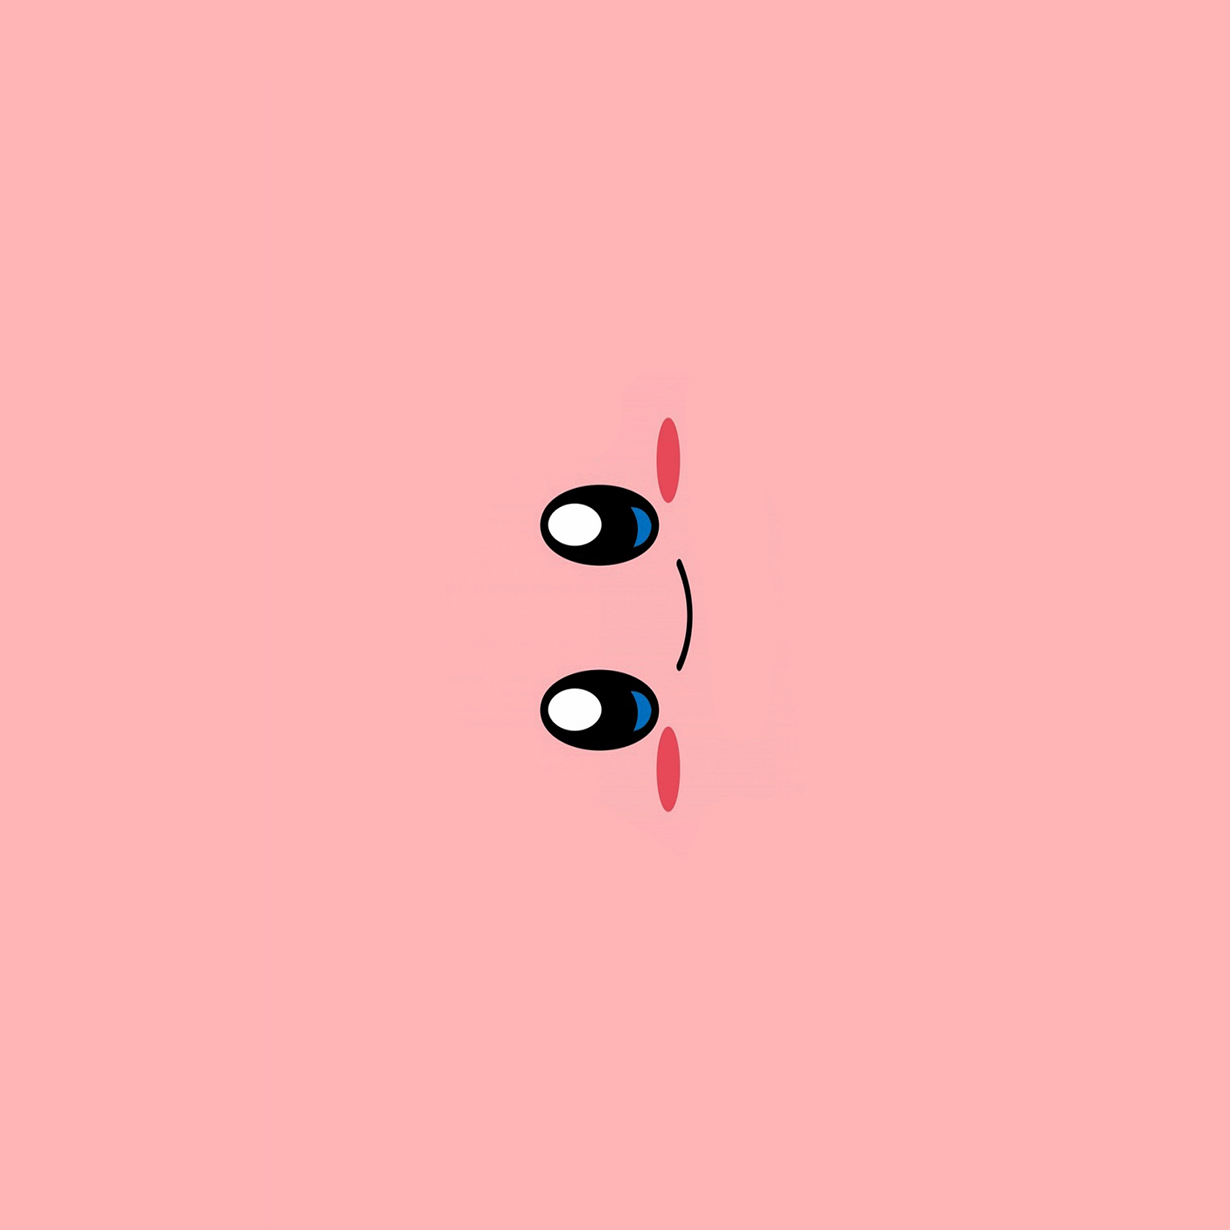
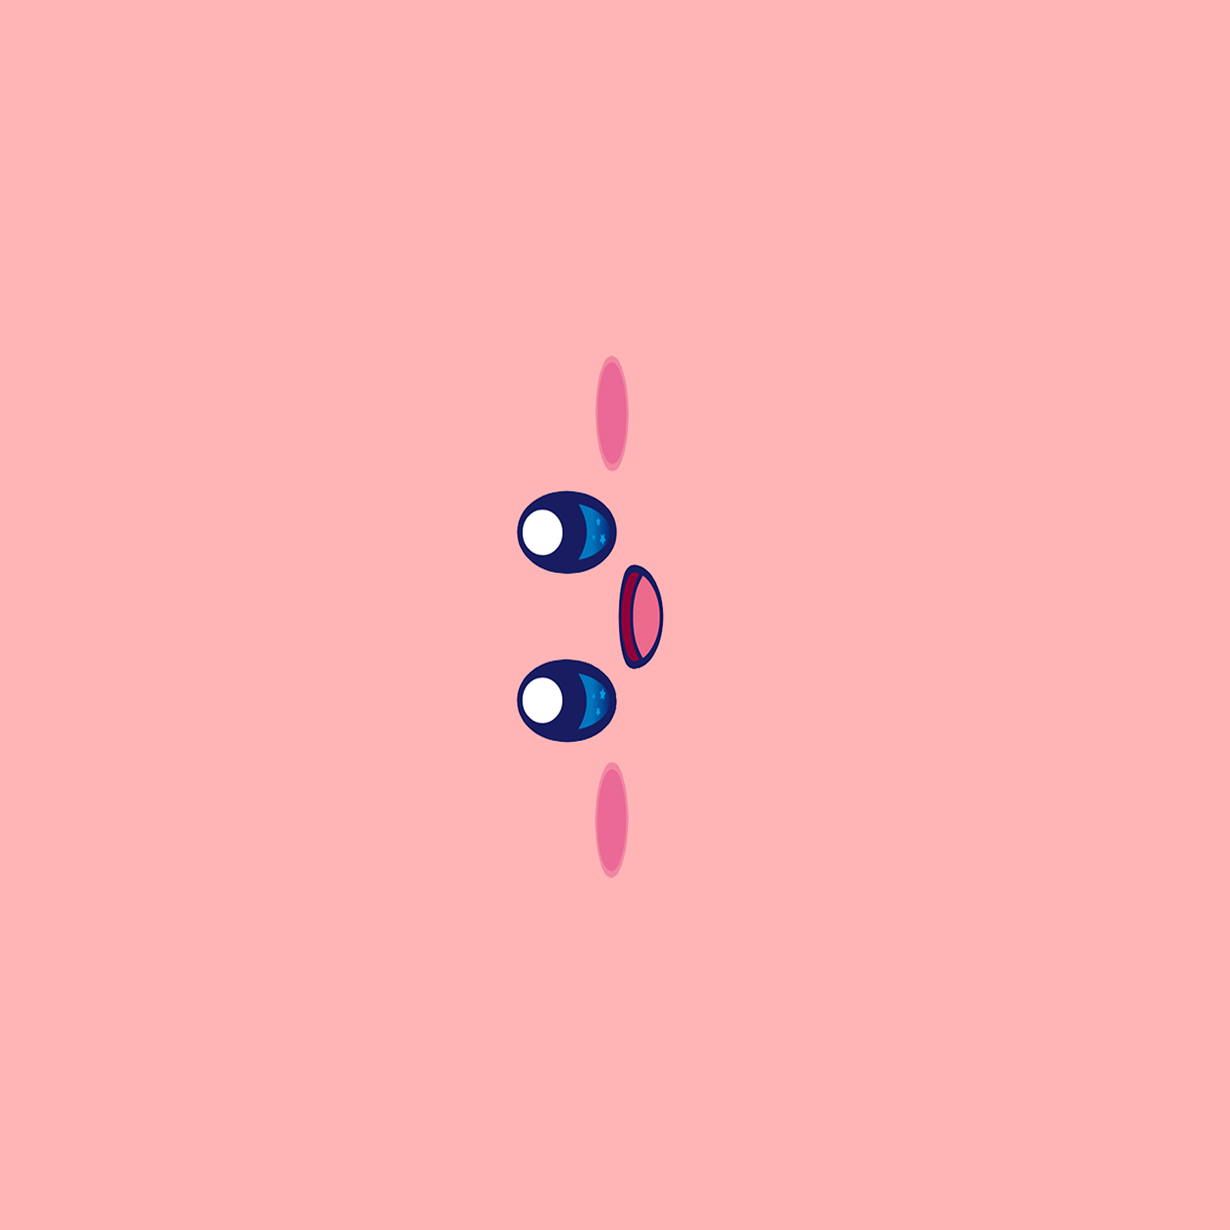
kirby fix

Changed region(s): [[0.4016, 0.278, 0.587, 0.7106]]

diff --git a/src/MainApp/Nodes/Kirby/KirbyNodeModel.ts b/src/MainApp/Nodes/Kirby/KirbyNodeModel.ts
@@ -98,12 +98,12 @@ export class KirbyNodeModel extends AMeshModel {
 	static async CreateDefaultNode(radius: number = 20, height = 10, samples: number = 50, isSmooth: boolean = true, ...args: any[]) {
 		let kirbyModel = new this();
 		let locations = [
-			V3(20, 0, 25), //right hand
+			V3(0, 20, 25), //right hand
 			V3(0, 0, 25),
 			// V3(new Vector3(0, 0, 25).applyQuaternion(Quaternion.RotationZ(Math.PI * 0.5))), //body
-			V3(-20, 0, 25), //left hand
-			V3(10, 0, 8), //right leg
-			V3(-10, 0, 8), //left leg
+			V3(0, -20, 25), //left hand
+			V3(0, 10, 8), //right leg
+			V3(0, -10, 8), //left leg
 		];
 		kirbyModel.segments = [
 			new KirbySegment(locations[0], 0.3 * radius, new THREE.Matrix4().makeScale(1.0, 1.0, 0.8), [Color.FromString('#FFC0CB'), Color.FromString('#FFC0CB')], 'pink'),

diff --git a/src/MainApp/StarterAppState/KirbyGameAppState.ts b/src/MainApp/StarterAppState/KirbyGameAppState.ts
@@ -256,7 +256,7 @@ export class KirbyGameAppState extends StarterAppState {
 		this.kirby = await KirbyNodeModel.CreateDefaultNode();
 		// this.setNodeMaterial(this.kirby, 'pink');
 		this.sceneModel.addNode(this.kirby);
-		// this.kirby.transform.rotation = Quaternion.RotationZ(Math.PI * 0.5);
+		this.kirby.transform.rotation = Quaternion.RotationZ(Math.PI * -0.5);
 		// this.kirby.setMaterial('pink');
 
 		this.kirby.transform.position.addVector(new Vec3(0, 0, 30));
